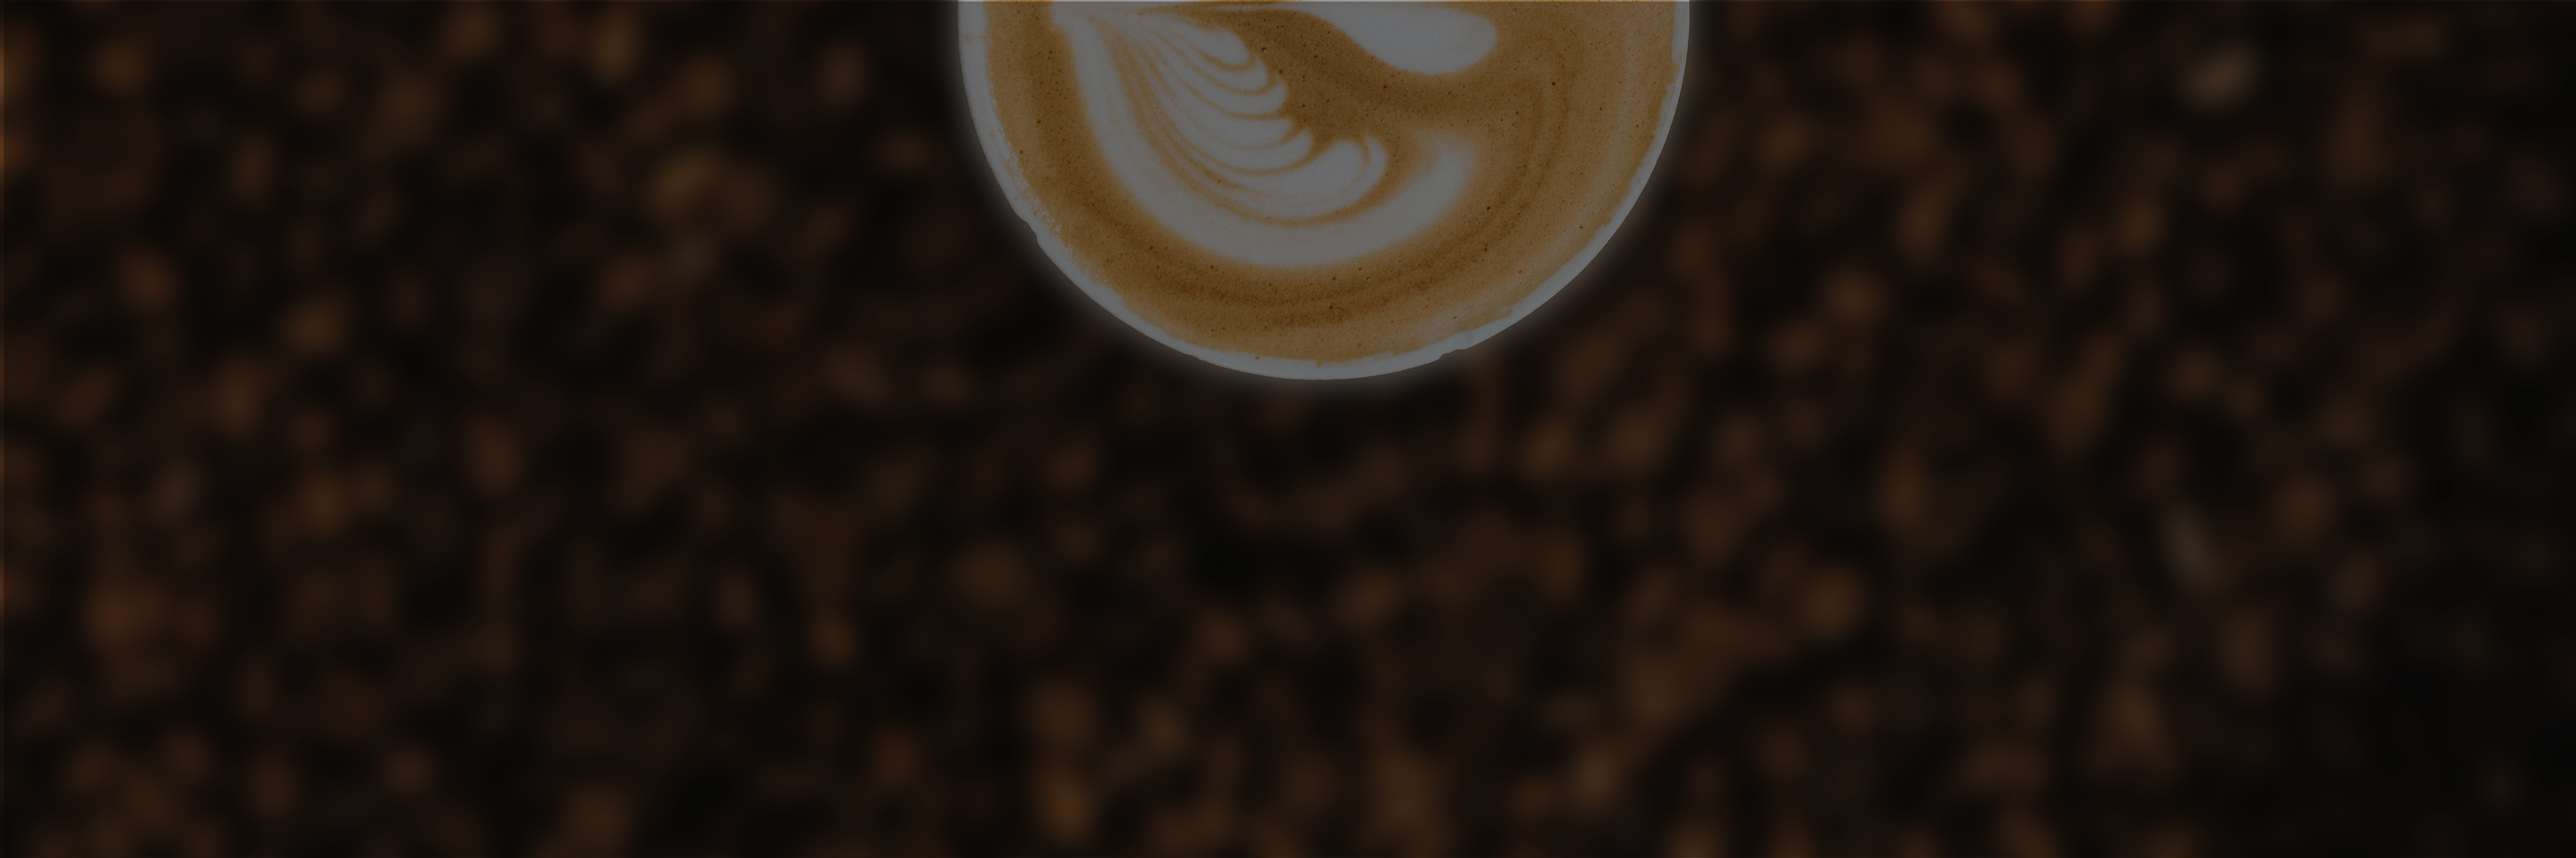
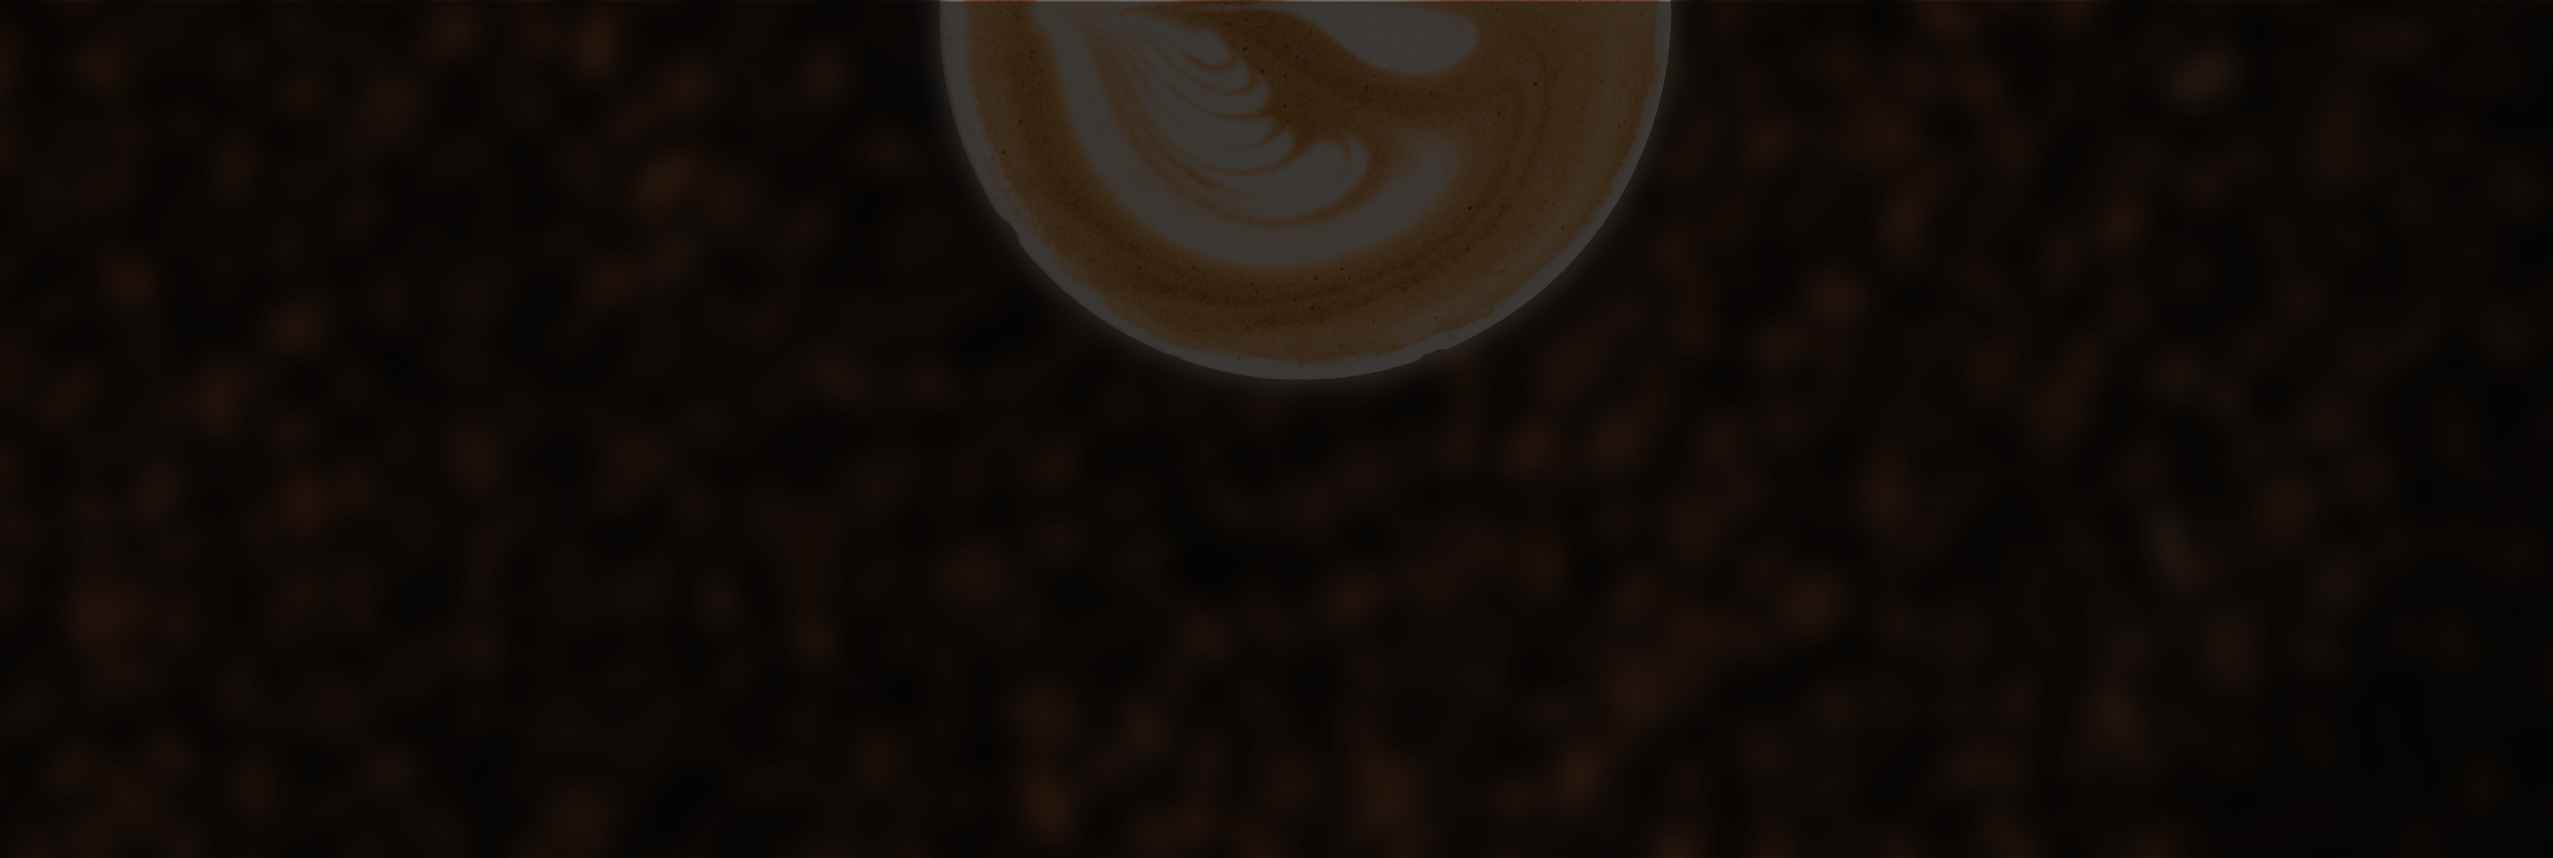
minor design changes

diff --git a/style.css b/style.css
@@ -97,7 +97,14 @@ a.removeBtn:visited{color:#D60202;border:0;padding:2px 10px;font-size:0.9em;}
     margin-left: 2px;
     border-radius: 2px;
 }
+a.custom-card,
+a.custom-card:hover {
+  color: inherit;
+  text-decoration: none;
+}
+.product-item, .product-item:hover {border: none; text-decoration: none; color: black;}
 .cart-item {border-bottom: #79b946 1px dotted;padding: 10px;}
+
 /* .product-item {	float:left;	background: #ffffff;margin:15px 10px;	padding:5px;border:#CCC 1px solid;border-radius:4px;} */
 /* .product-item div{text-align:center;	margin:10px;}
 .product-price {color: #005dbb;font-weight: 600;}

diff --git a/footer.php b/footer.php
@@ -6,49 +6,59 @@ if (!isset($_SESSION)) {
 ?>
 <html>
 <body>
-    <div class="container">
-        <div class="row" id="background" style="color: #F4FAFF; justify-content: center;
-  align-items: center;">
-            <div class="col text-center" style="font-weight: 300; ">
-            <p>"<?php echo($index->getCompanyData()['companyDescription']); ?>"</p>
+    <div class="container-fluid" style="margin-top: 50px;">
+        <div class="row" id="background" style="color: #F9F8F0; justify-content: center; align-items: center;">
+            <div class="col" style="text-align: center; font-weight: 300; margin-left: 5%;">
+                <div style="display: inline-block; text-align: left;">
+                    <h5 style="font-weight: 700; font-family: Marcellus; text-transform: uppercase;">About Us:</h5>
+                    <hr style="margin-left:0;height:2px;width:15%;border-width:2px;background-color:#F9F8F0;">
+                    <p style="color: #F9F8F0; display: inline; line-height: 2;">"<?php echo($index->getCompanyData()['companyDescription']); ?>"</p>
+                </div>
             </div>
-            <div class="col text-center" style="color: #9C7738;">
-            <p>Address: <br> <?php echo($index->getCompanyData()['adress']); ?></p>
-            <p>Phone: <br> <?php echo($index->getCompanyData()['phone']); ?></p>
-            <p>Email: <br> <?php echo($index->getCompanyData()['email']); ?></p>
+            <div class="col" style="text-align: center; margin-left: 5%;">
+                <div style="display: inline-block; text-align: left;">
+                    <h5 style="font-weight: 700; font-family: Marcellus; text-transform: uppercase;">Contact Us:</h5>
+                    <hr style="margin-left:0;height:2px;width:15%;border-width:2px;background-color:#F9F8F0;">
+                        <div class="contact" style="color: #9C7738;">   
+                            <p style="color: #F9F8F0; display: inline; line-height: 2;">Address: </p>  <?php echo($index->getCompanyData()['adress']); ?> <br>
+                            <p style="color: #F9F8F0; display: inline; line-height: 2;">Phone:</p>  <?php echo($index->getCompanyData()['phone']); ?> <br>
+                            <p style="color: #F9F8F0; display: inline; line-height: 2;">Email: </p> <?php echo($index->getCompanyData()['email']); ?>
+                        </div>
+                </div>
             </div>
-            <div class="col text-left">
-            <h5 style="font-weight: 300; ">Working time of the Company:</h5> <br>
-            <div class="hours" style="color: #9C7738;">
-                    <?php
-                    foreach ($index->getWorkdays() as $key => $value) {
-                    ?>
-                    <div class="col-sm">
-                    <p><?php print_r($value['startingHour']) ?></p> 
-                    </div>
-                    <div class="col-sm">
-                    <p><?php print_r($value['closingHour']) ?></p> 
-                    </div> 
-                    <div class="col-sm text-left">
-                    <p><?php print_r($value['openDay']) ?></p>  
-                    </div> 
-                    <?php
-                    }
-                    ?>
+            <div class="col" style="text-align: center; margin-right: 5%;">
+                <div style="display: inline-block; text-align: left;">
+                    <h5 style="font-weight: 700; font-family: Marcellus; text-transform: uppercase;">Opening Hours:</h5>
+                    <hr style="margin-left:0;height:2px;width:15%;border-width:2px;background-color:#F9F8F0;">
+                        <div class="hours" style="color: #F9F8F0; line-height: 1;">
+                            <?php
+                            foreach ($index->getWorkdays() as $key => $value) {
+                            ?>
+                            <div class="col-sm">
+                                <p><?php print_r($value['startingHour']) ?></p> 
+                            </div>
+                            <div class="col-sm">
+                                <p><?php print_r($value['closingHour']) ?></p> 
+                            </div> 
+                            <div class="col-sm">
+                                <p><?php print_r($value['openDay']) ?></p>  
+                            </div> 
+                            <?php
+                            }
+                            ?>
+                        </div>
+                </div>
             </div>
-            </div>
-           
-         
         </div>
         <div class="row justify-content-center" style="background-color: #0B0501; color: #5D5A57;">
-        <p>© Copyright 2020 Coffee Shop. All rights Reserved. Designed by Niko, Simas & Ugne</p>
+            <p>© Copyright 2020 Coffee Shop. All rights Reserved. Designed by Niko, Simas & Ugne</p>
         </div>
     </div>
 </body>
 </html>
 <style>
 #background {
-    background: url("https://scontent.faar2-1.fna.fbcdn.net/v/t1.15752-9/s2048x2048/122551051_4786173088090077_747681848141860092_n.jpg?_nc_cat=102&ccb=2&_nc_sid=ae9488&_nc_ohc=d4ggOw64ldsAX-6-Pmj&_nc_ht=scontent.faar2-1.fna&tp=7&oh=1c9e11befdf3c746f49624401921269e&oe=5FB8ED80");
+    background: url("https://scontent.fbll1-1.fna.fbcdn.net/v/t1.15752-9/s2048x2048/123006300_3364057146996405_8434905044085621389_n.jpg?_nc_cat=101&ccb=2&_nc_sid=ae9488&_nc_ohc=7FajVAR79mcAX89N0pR&_nc_ht=scontent.fbll1-1.fna&tp=7&oh=f6a63ecae119c8d73bdbaac5e0220dd5&oe=5FBFAB5D");
     height: 380px; /* You must set a specified height */
     background-position: center; /* Center the image */
     background-repeat: no-repeat; /* Do not repeat the image */
@@ -56,7 +66,8 @@ if (!isset($_SESSION)) {
 }
 .hours {
     display: grid; 
-    grid-template-columns: 15% 30% 55%; 
+    grid-template-columns: 20% 30% 50%; 
+    margin-left: -5%; 
 }
 
 </style>

diff --git a/Views/categories.php b/Views/categories.php
@@ -1,10 +1,10 @@
 <div class="container">
     <div class="row justify-content-center">
-        <h1>Choose a Category</h1>
+        <h1 style="margin-bottom: 3%;">Choose a Category</h1>
     </div>
     <div class="row justify-content-center">
         <a href="product?categoryID=0">
-            <button name="category" type="submit" value="0">All</button>
+            <button style="margin: 5px;" class="btn btn-outline-dark" name="category" type="submit" value="0">All</button>
         </a>
 
         <?php
@@ -12,7 +12,7 @@
     foreach ($catArr->getCategory() as $value) {
     echo ('
                 <a href="product?categoryID=' . $value['categoryID'] . '">
-                    <button name="category" type="submit" value="' . $value['categoryID'] . '">' . $value['name'] . '</button>
+                    <button class="btn btn-outline-dark" style="margin: 5px;" name="category" type="submit" value="' . $value['categoryID'] . '">' . $value['name'] . '</button>
                 </a>
                 ');
             }
@@ -24,11 +24,12 @@ if (isset($_GET['categoryID'])) {
     $productsObj = new Products();
     $productsByCategory = $productsObj->getProductByCategory($_GET['categoryID']);
     foreach ($productsByCategory as $value) {?>
-        <div class="product-item card col-3 mx-2 my-2">
+    <a href="product?productID=<?php echo $value['productID'] ?>" class="custom-card">
+        <div class="product-item card col-3 mx-2 my-2 shadow p-3 mb-5 bg-white rounded">
             <div class="product-image">
             <img
-            src="https://purepng.com/public/uploads/large/purepng.com-coffee-beanscoffee-beanscoffeestone-fruitpeaberry-1411527241519iq7rh.png"
-            id="<?php echo $value['productID']; ?>" width="150">
+            src="https://unblast.com/wp-content/uploads/2019/05/Paper-Pouch-Packaging-Mockup-2.jpg"
+            id="<?php echo $value['productID']; ?>" width="100%;">
             </div>
             <div>
                 <strong><?php echo $value["name"]; ?></strong>
@@ -46,24 +47,26 @@ if (isset($_GET['categoryID'])) {
                     <?php echo $value["stock"]; ?>
                 </strong>
             </p>
-            <button type="button" id="add_<?php echo $value['productID']; ?>" class="btn btn-primary" data-trigger="focus" data-toggle="popover" data-content="Added to cart"
+            </a>
+            <button type="button" id="add_<?php echo $value['productID']; ?>" class="btn btn-orange" data-trigger="focus" data-toggle="popover" data-content="Added to cart"
                 onClick="cartAction('add', '<?php echo $value['productID']; ?>','<?php echo $value["name"]; ?>','<?php echo $value["price"]; ?>','<?php echo $value["price"]; ?>')">
                 Add to cart
             </button>
             <?php
 }
         ?>
-            <a href="product?productID=<?php echo $value['productID'] ?>" class="btn btn-outline-primary">View Product</a>
+            <a href="product?productID=<?php echo $value['productID'] ?>"></a>
         </div>
         <?php
 }
 } elseif (!isset($_GET['productID'])) {
     $productsByCategory = $productsObj->getProductByCategory(0);
     foreach ($productsByCategory as $value) {?>
-        <div class="product-item card col-3 mx-2 my-2">
+        <a href="product?productID=<?php echo $value['productID'] ?>" class="custom-card">
+        <div class="product-item card col-3 mx-2 my-2 shadow p-3 mb-5 bg-white rounded">
             <div class="image">
-                <img src="https://purepng.com/public/uploads/large/purepng.com-coffee-beanscoffee-beanscoffeestone-fruitpeaberry-1411527241519iq7rh.png"
-                    id="<?php echo $value['productID']; ?>" width="150">
+                <img src="https://unblast.com/wp-content/uploads/2019/05/Paper-Pouch-Packaging-Mockup-2.jpg"
+                    id="<?php echo $value['productID']; ?>" width="100%">
             </div>
             <div>
                 <strong><?php echo $value["name"]; ?></strong>
@@ -81,15 +84,17 @@ if (isset($_GET['categoryID'])) {
                     <?php echo $value["stock"]; ?>
                 </strong>
             </p>
-            <button type="button" id="add_<?php echo $value['productID']; ?>" class="btn btn-primary" data-trigger="focus" data-toggle="popover" data-content="Added to cart"
+            </a>
+            <button type="button" id="add_<?php echo $value['productID']; ?>" class="btn btn-orange" data-trigger="focus" data-toggle="popover" data-content="Added to cart"
                 onClick="cartAction('add', '<?php echo $value['productID']; ?>','<?php echo $value["name"]; ?>','<?php echo $value["price"]; ?>','<?php echo $value["price"]; ?>')">
                 Add to cart
             </button>
             <?php
 }
         ?>
-            <a href="product?productID=<?php echo $value['productID'] ?>" class="btn btn-outline-primary">View Product</a>
+            <a href="product?productID=<?php echo $value['productID'] ?>"></a>
         </div>
+      
         <?php
 }
 }
@@ -99,3 +104,10 @@ if (isset($_GET['categoryID'])) {
 <script> 
 $("[data-toggle=popover]").popover();
 </script>
+
+<style>
+
+.btn-orange{background-color:#976C42;color: #FFF;}
+.btn-orange:hover{background-color:#49291F;color: #FFF;}
+
+</style>

diff --git a/Views/profile.php b/Views/profile.php
@@ -1,9 +1,10 @@
 <?php
 include("header.php");
+$index = new Index();
 $profileObj = new Profile();
 $profile = $profileObj->getProfileData($_SESSION['customerID']);
 ?>
-<div class="container">
+<div class="container-fluid">
     <div class="row justify-content-center">
         <h1>PROFILE</h1>
     </div>
@@ -31,7 +32,7 @@ $profile = $profileObj->getProfileData($_SESSION['customerID']);
                                 <?php
                                 }
                                 ?></p>
-                            <a class="btn btn-primary" href="edit-profile">
+                            <a class="btn btn-orange" href="edit-profile">
                                 Edit Personal Information
                             </a>
                         </div>
@@ -39,3 +40,9 @@ $profile = $profileObj->getProfileData($_SESSION['customerID']);
                 </div>
             </div>
         </div>
+        <?php
+include("footer.php");
+?>
+<style>
+.btn-orange{background-color:#976C42;color: #FFF;}
+.btn-orange:hover{background-color:#49291F;color: #FFF;}</style>

diff --git a/Views/products.php b/Views/products.php
@@ -1,5 +1,6 @@
 <?php
 include('header.php');
+$index = new Index();
 $productsObj = new Products();
 if (isset($_GET["productID"])) {
     $productDetails = $productsObj->getProductDetails($_GET["productID"]);
@@ -131,6 +132,8 @@ if (isset($_GET["productID"])) {
                     <span class="sr-only">Next</span>
                 </a>
             </div>
+        
+
     <?php
             }
         }
@@ -140,6 +143,9 @@ if (isset($_GET["productID"])) {
     ?>
         </div>
 </div>
+<?php
+include("footer.php");
+?>
 <script>
 $(document).ready(function(){
     // hide shopping-cart on page load

diff --git a/Views/index.php b/Views/index.php
@@ -11,7 +11,7 @@ $index = new Index();
      <?php
     }
      ?>
-    <h1 align="center">Special products</h1>
+    <h1 align="center" style="margin-bottom: 3%;">Special products</h1>
     <div class="row justify-content-center">
         <div id="carouselHome" class="carousel slide" data-ride="carousel">
             <ol class="carousel-indicators">

diff --git a/Views/aboutUs.php b/Views/aboutUs.php
@@ -1,6 +1,11 @@
 <?php
-include("header.php");
+include("header.php");  
+$index = new Index();
 ?>
 <style> <?php include 'style.css'; ?> </style>
 
 <h2>AboutUs</h2>
+
+<?php
+include("footer.php");
+?>
